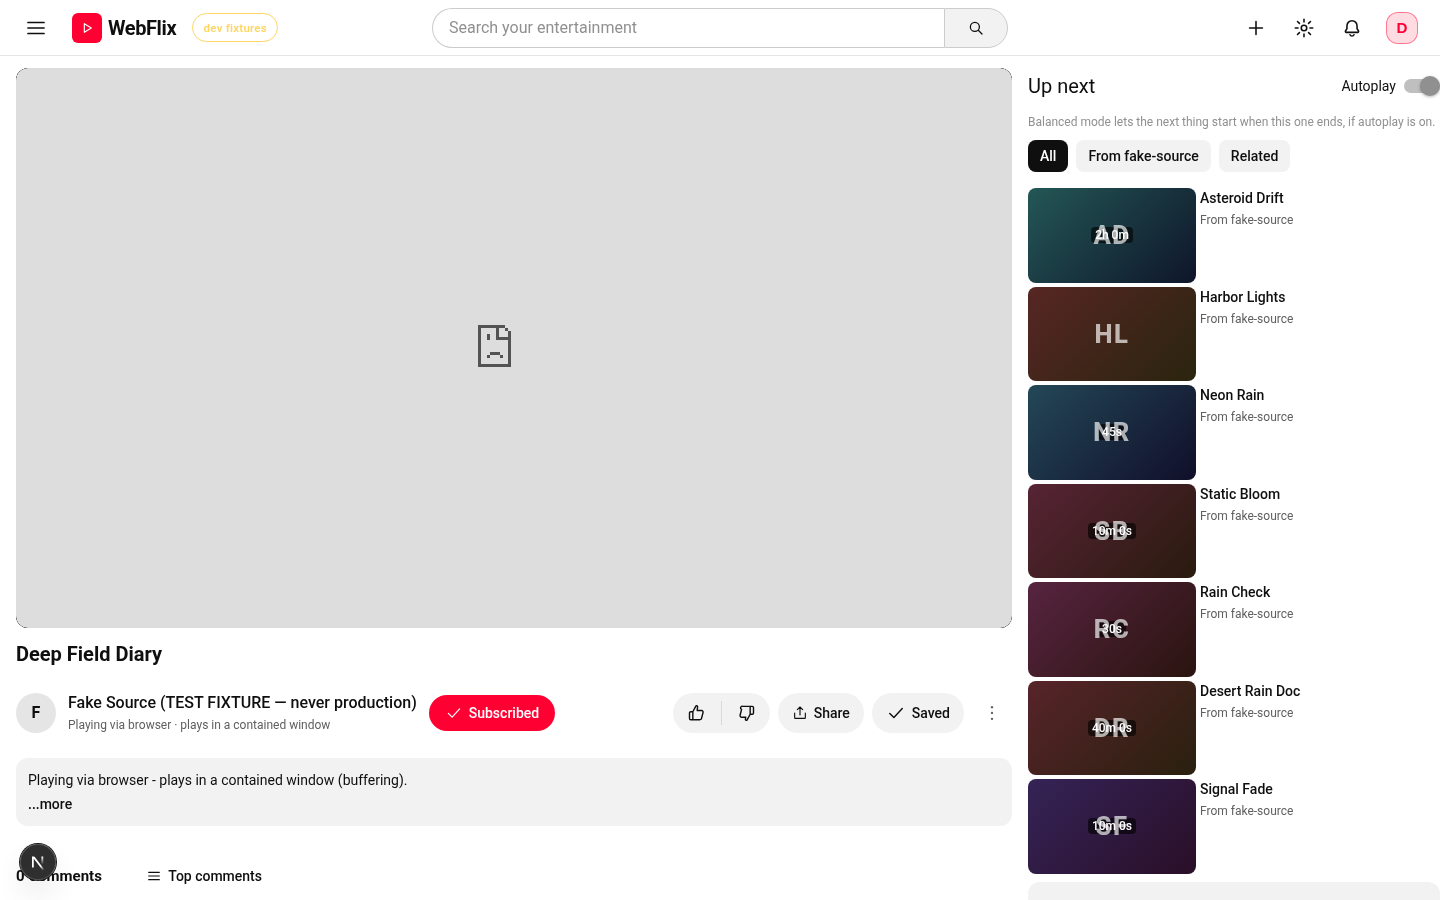
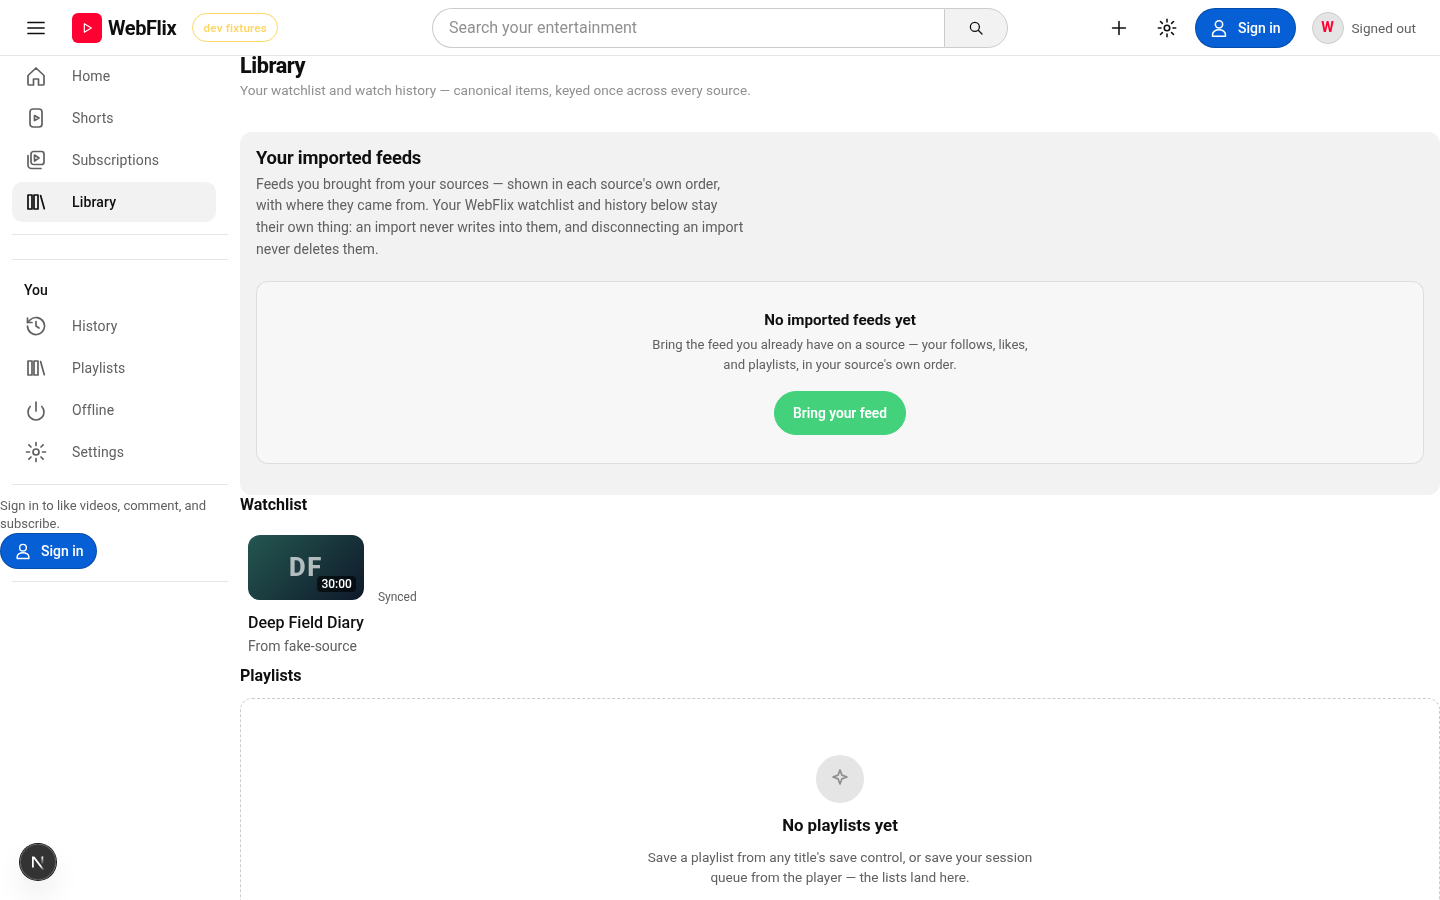
R33-B evidence: capture 09 re-shot as the Library's own Subscriptions list (the stored truth's third surface — the pill pair had collapsed to one state because the honest toggle law meant no re-click; the identical-file redundancy replaced with a distinct proof)

diff --git a/evidence/r33b/browser-verification.md b/evidence/r33b/browser-verification.md
@@ -42,15 +42,18 @@ whole pass (`agent-browser errors` empty at the close of every stage).
    Shorts · Library · History · Playlists · Offline · Settings — ONE
    History, ZERO Watch, ZERO duplicate Subscriptions navlinks.
 6. **The stored-truth round trip** (`captures/08`–`11`, the R31 restart
-   law reproduced): the player's REAL Subscribe pill (honest toggle — the
-   pass reads the pill's state BEFORE any click: "Subscribed" after the
-   prior write, NO click fired) → the fresh process reads the fixtures
-   file back → **the section's stored row renders** ("D Deep Field Diary"
-   — the 24x24 monogram avatar + the entry's own title, LINKED with the
-   entry's real player destination) and **the feed grid renders the same
-   stored truth** (1 entry: the full card grammar "Deep Field Diary ·
-   From fake-source"). The feed through the section-heading navigation
-   paints aria-current on the bottom-nav Subscriptions item.
+   law reproduced): the player's REAL Subscribe pill reads its honest
+   state BEFORE any click — "Subscribed" (the prior session's REAL write
+   landed in the fixtures file; the toggle law means NO re-click fires)
+   → the fresh process reads the fixtures file back → **the section's
+   stored row renders** ("D Deep Field Diary" — the 24x24 monogram
+   avatar + the entry's own title, LINKED with the entry's real player
+   destination) and **the feed grid renders the same stored truth** (1
+   entry: the full card grammar "Deep Field Diary · From fake-source"),
+   and **the Library's own Subscriptions list renders it too** (the
+   write's third surface — `captures/09`). The feed through the
+   section-heading navigation paints aria-current on the bottom-nav
+   Subscriptions item.
 7. **The mobile sweep** (`captures/12`–`13`, @390×844): the bottom nav
    reads Home · Shorts · **Subscriptions (aria-current="page" on the feed
    route)** · Library; the guide toggle opens the DRAWER (the corpus
